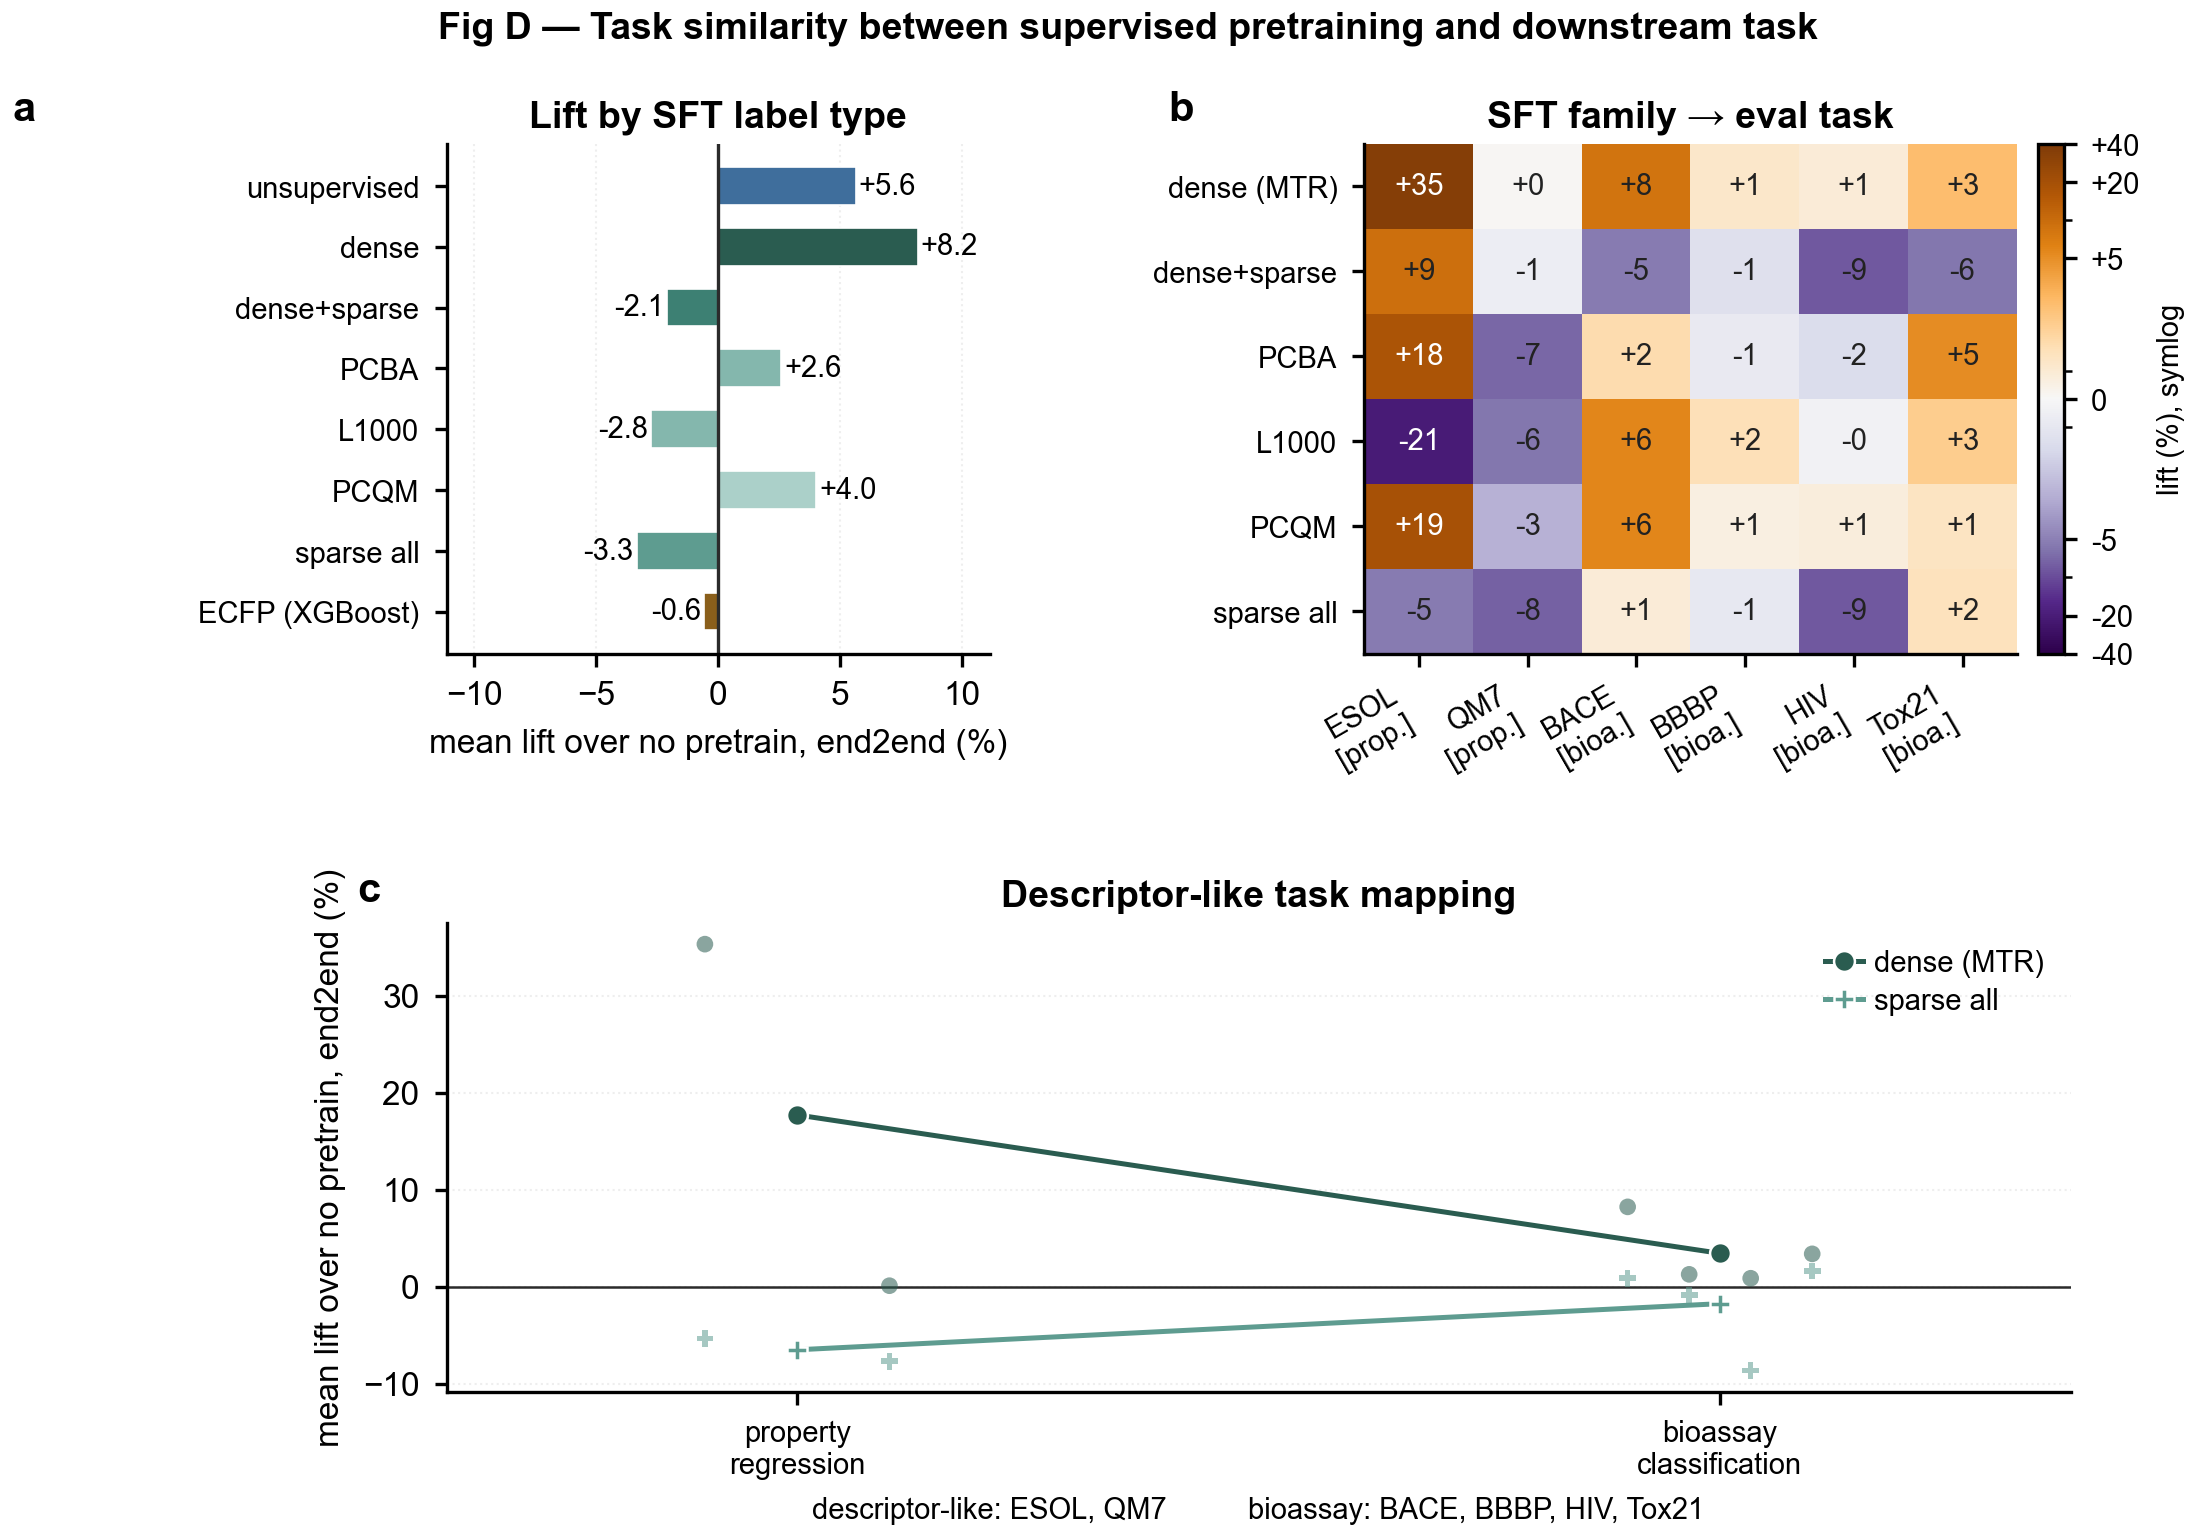
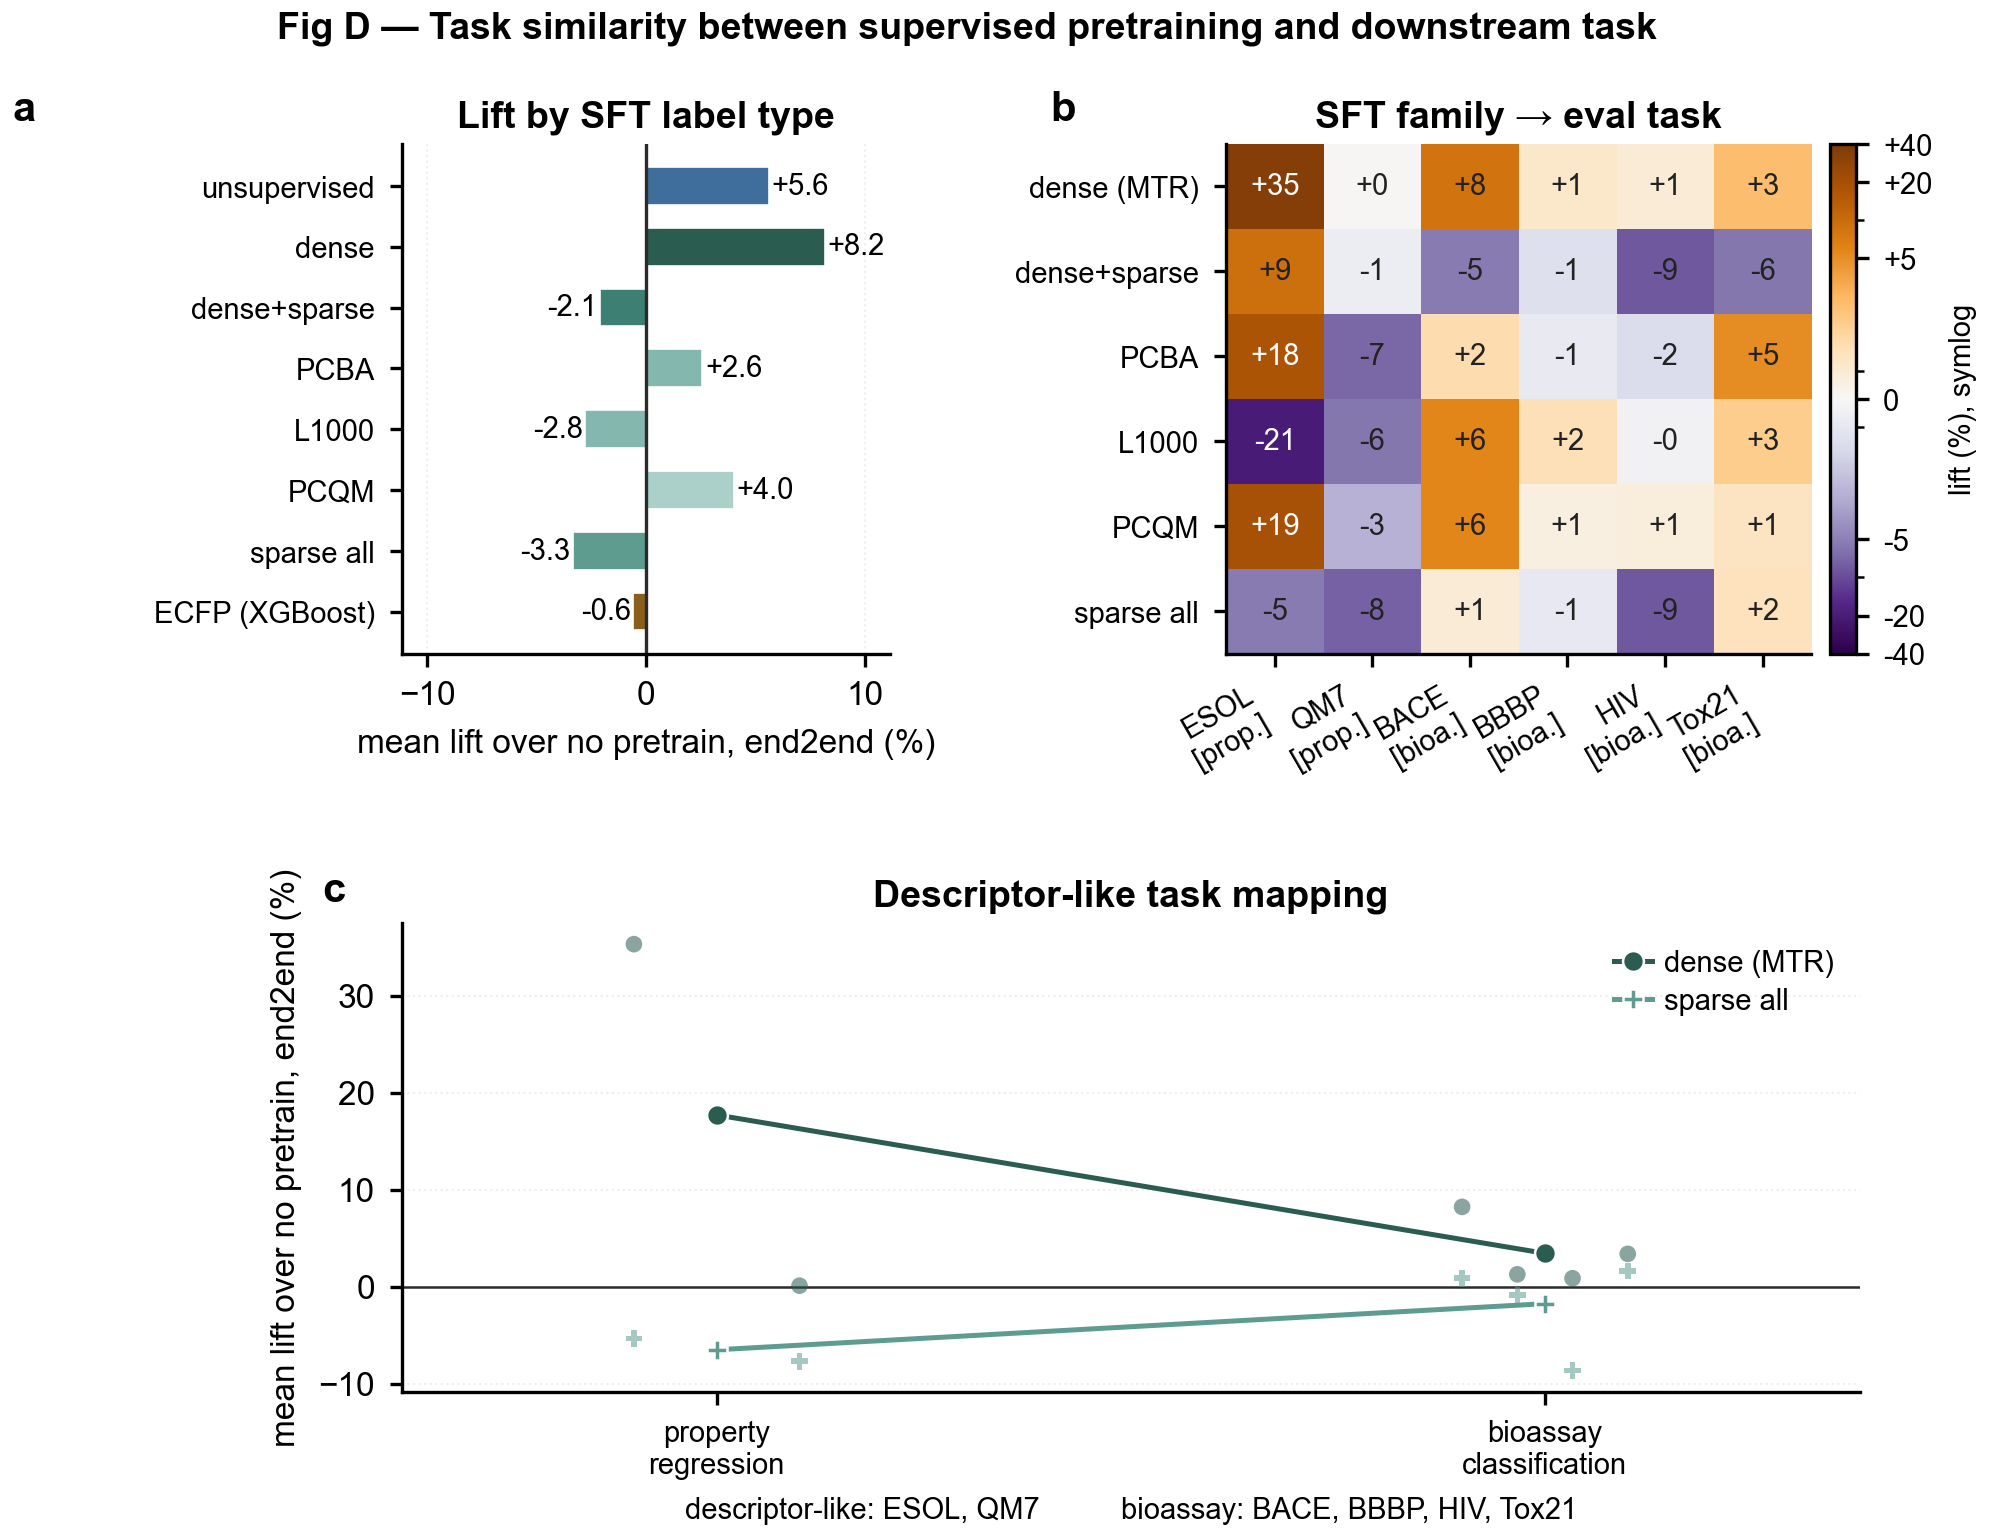
Fix the three figures that missed the A4 page width
Diagnosed by measuring each figure's tight bbox against its canvas rather than guessing:

figC1 (-14%): no left/right in subplots_adjust, so matplotlib's defaults left 0.67in of canvas
unused on the right and tight-bbox trimmed it. Set left/right explicitly.

figC2 (+6%): right=0.72 was still reserving space for a task legend that now sits INSIDE the axes.
The 0.70in LEFT overflow was not the y-label as I first assumed but the one-line TITLE, which
measured 7.04in — wider than the 6.69in canvas — so tight-bbox grew the figure around it. Wrapped
the title onto two lines and restored a normal left margin. (My first attempt widened the left
margin instead and overcorrected to -17%, which the width check caught.)

figD (+9%): panel-a y-label 0.38in past the canvas, transfer-matrix colorbar 0.17in past. Widened
left/right to bring both inside.

All 14 figures now render within 5% of the A4 text block.

diff --git a/figures/fig_C2.py b/figures/fig_C2.py
@@ -189,9 +189,17 @@ def main():
     r, rho, p = data["r"], data["rho"], data["p"]
     fig, ax = plt.subplots(figsize=(STYLE["col2"], 3.4))
     draw(ax, data)
-    title(ax, f"Fig C2 \u2014 Supervised pretraining: transfer vs chemical similarity"
-              f"   (n={len(pts)}, Pearson r={r:+.2f}, Spearman \u03c1={rho:+.2f}, p={p:.3f})")
-    fig.subplots_adjust(top=0.88, bottom=0.15, right=0.72)
+    # Two lines. As one line this title measured 7.04in — WIDER than the 6.69in canvas — so
+    # savefig's tight bbox grew the whole figure around it and C2 printed with smaller fonts than
+    # every other figure once LaTeX scaled it back to \textwidth.
+    title(ax, f"Fig C2 \u2014 Supervised pretraining: transfer vs chemical similarity\n"
+              f"(n={len(pts)}, Pearson r={r:+.2f}, Spearman \u03c1={rho:+.2f}, p={p:.3f})")
+    # right=0.72 dates from when the task legend hung OUTSIDE the axes; it now sits inside, so
+    # that 28% reservation was pure waste. The 0.70in left overflow that used to inflate this
+    # figure was the one-line TITLE, not the y-label (the title is centred on the axes and was
+    # wider than the canvas) -- fixed by wrapping it above, so the left margin only needs to hold
+    # the y-label.
+    fig.subplots_adjust(top=0.86, bottom=0.15, left=0.085, right=0.985)
     save(fig, "figC2")
     plt.close(fig)
 

diff --git a/figures/fig_C1.py b/figures/fig_C1.py
@@ -249,7 +249,11 @@ def main():
     draw(ax0, ax1, data)
     title(fig, "Fig C1 \u2014 Unsupervised pretraining: memorization or representation?",
           y=1.04)
-    fig.subplots_adjust(top=0.84, bottom=0.16, wspace=0.32)
+    # Margins are set explicitly so the AXES fill the canvas: with matplotlib's defaults the
+    # right 10% (0.67in) went unused, savefig's tight bbox trimmed it, and this figure came out
+    # 5.75in against the set's 6.69in page width -- LaTeX then upscaled it and its fonts printed
+    # larger than every other figure's. save() warns if that returns.
+    fig.subplots_adjust(top=0.84, bottom=0.16, left=0.085, right=0.985, wspace=0.32)
     save(fig, "figC1")
     plt.close(fig)
 

diff --git a/figures/fig_D.py b/figures/fig_D.py
@@ -250,7 +250,10 @@ def main():
     # y=1.02 put the suptitle ABOVE the canvas, which inflates savefig's tight bbox; keep it in.
     title(fig, "Fig D \u2014 Task similarity between supervised pretraining and downstream task",
           y=0.985)
-    fig.subplots_adjust(top=0.90, bottom=0.10, left=0.16, right=0.97)
+    # left/right widened to bring the panel-a y-label (was 0.38in past the canvas) and the
+    # transfer-matrix colorbar (0.17in past) back inside, so savefig's tight bbox stops growing
+    # this figure beyond the page width.
+    fig.subplots_adjust(top=0.90, bottom=0.10, left=0.218, right=0.945)
     save(fig, "figD")
     plt.close(fig)
 
